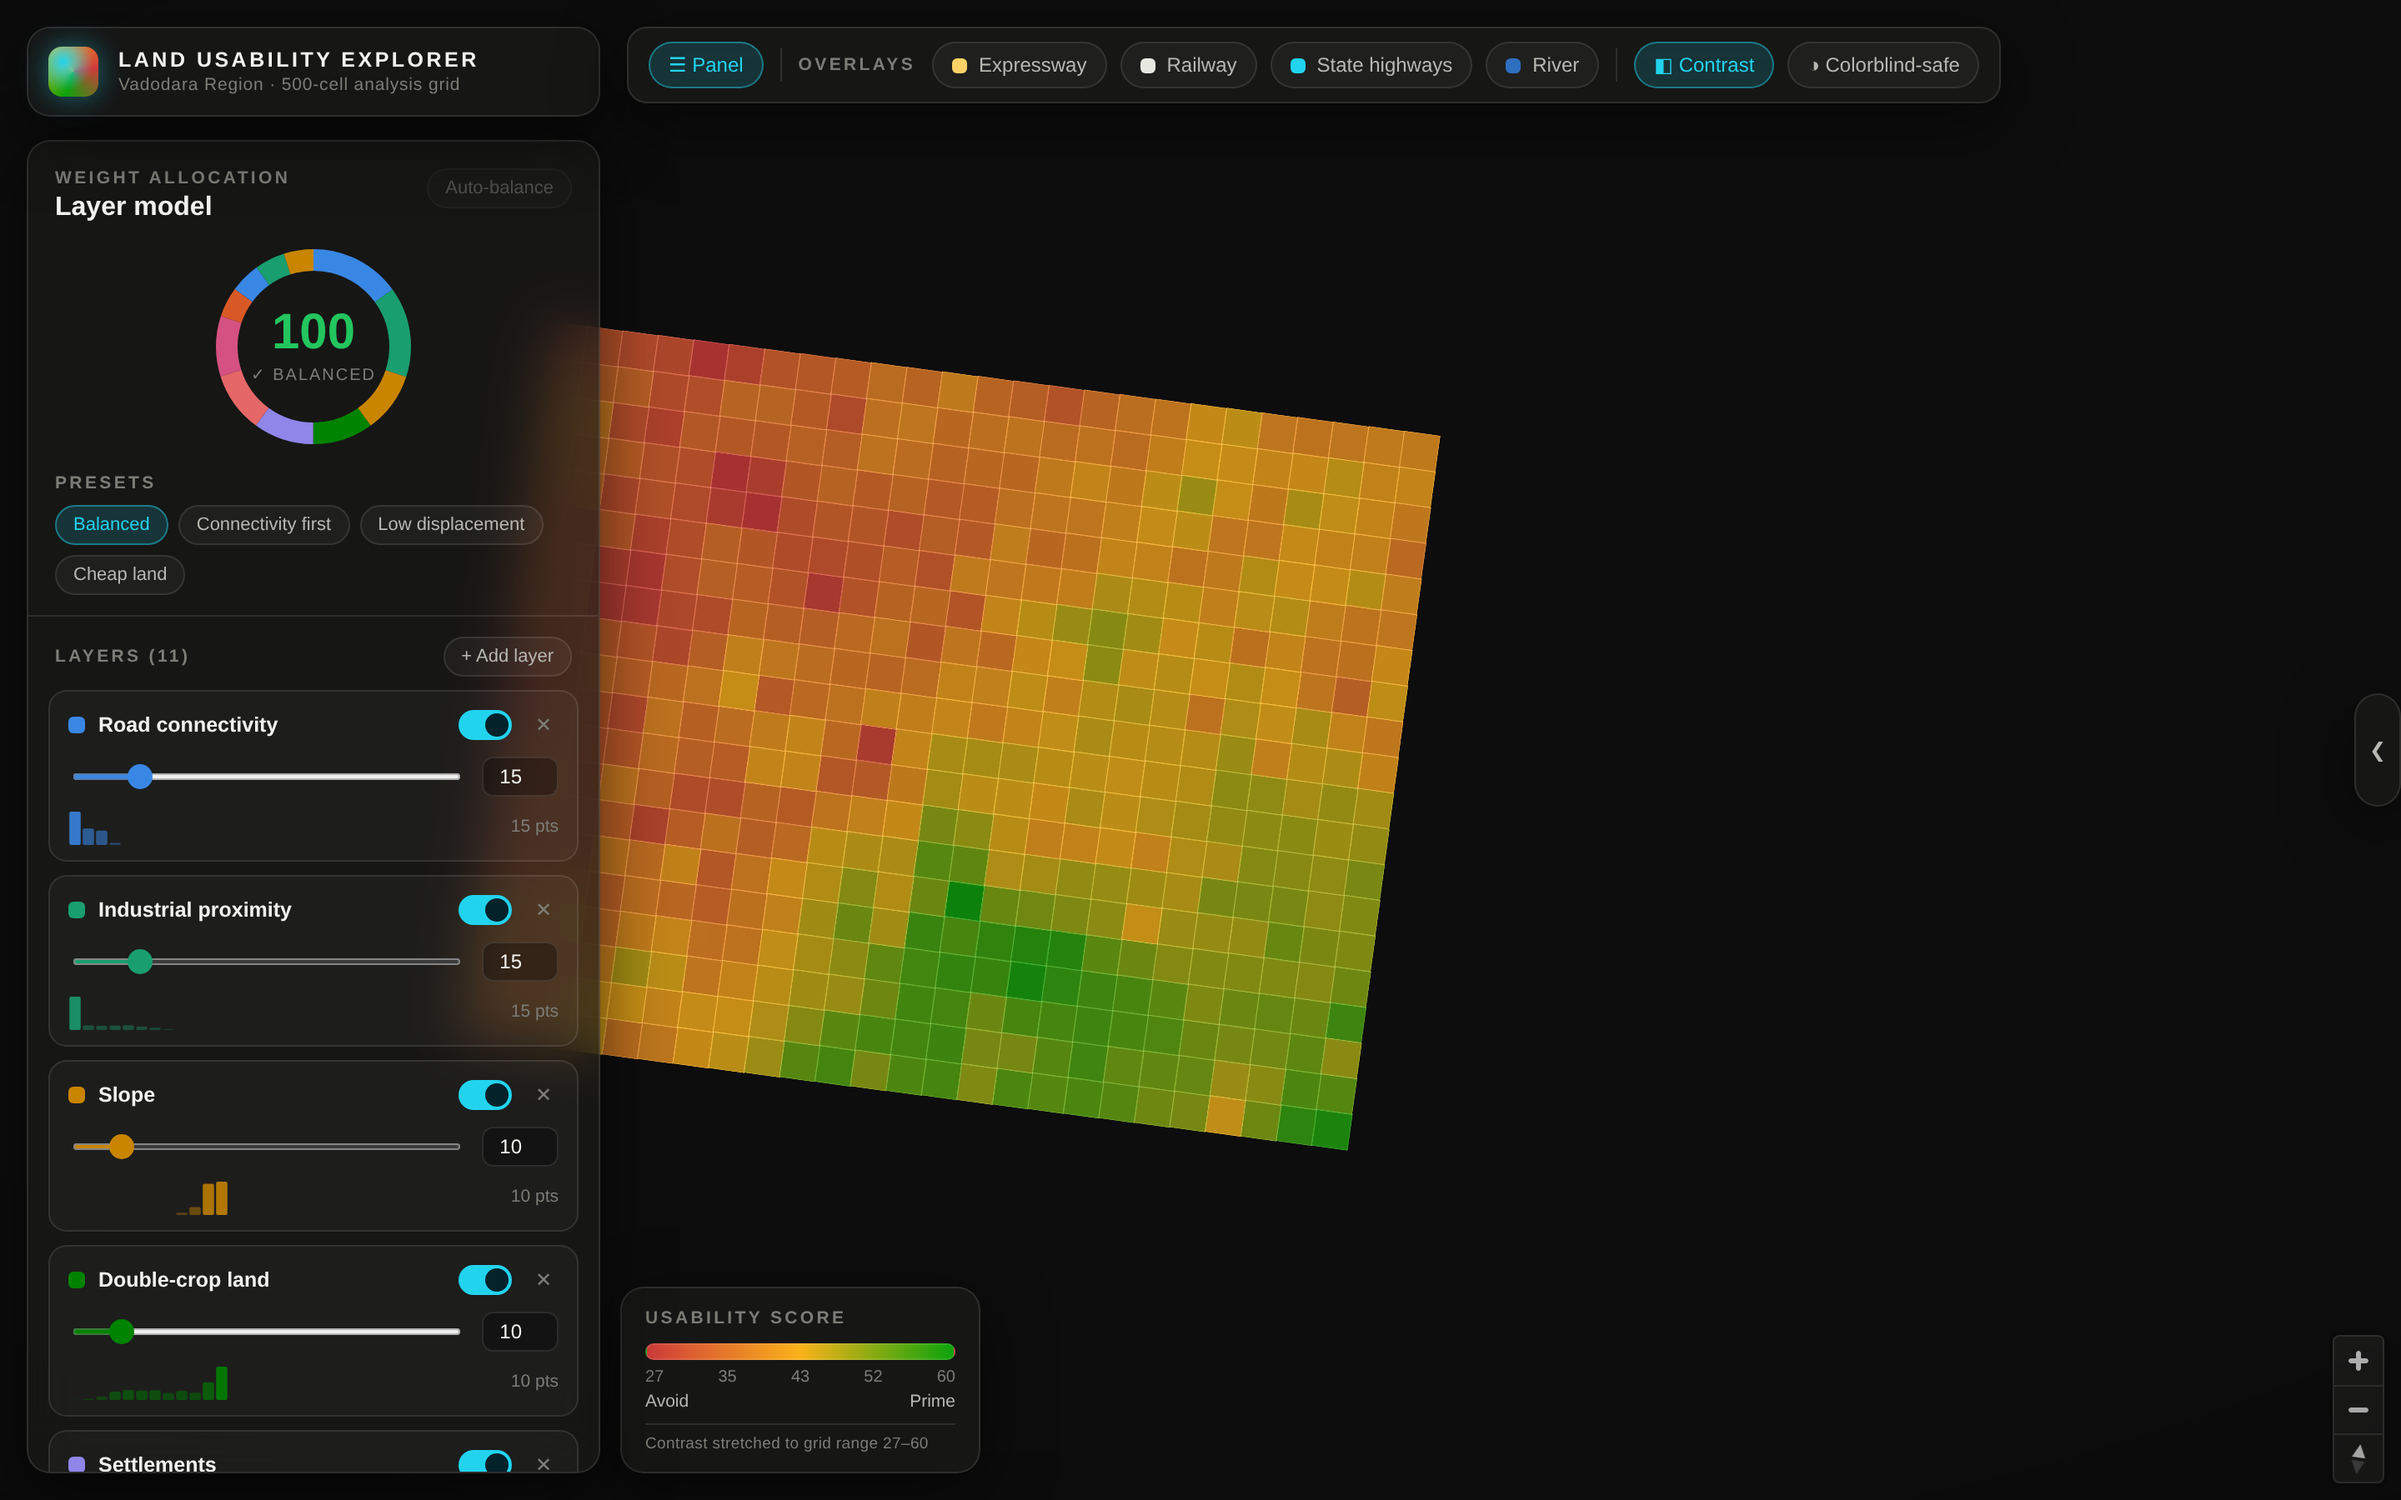
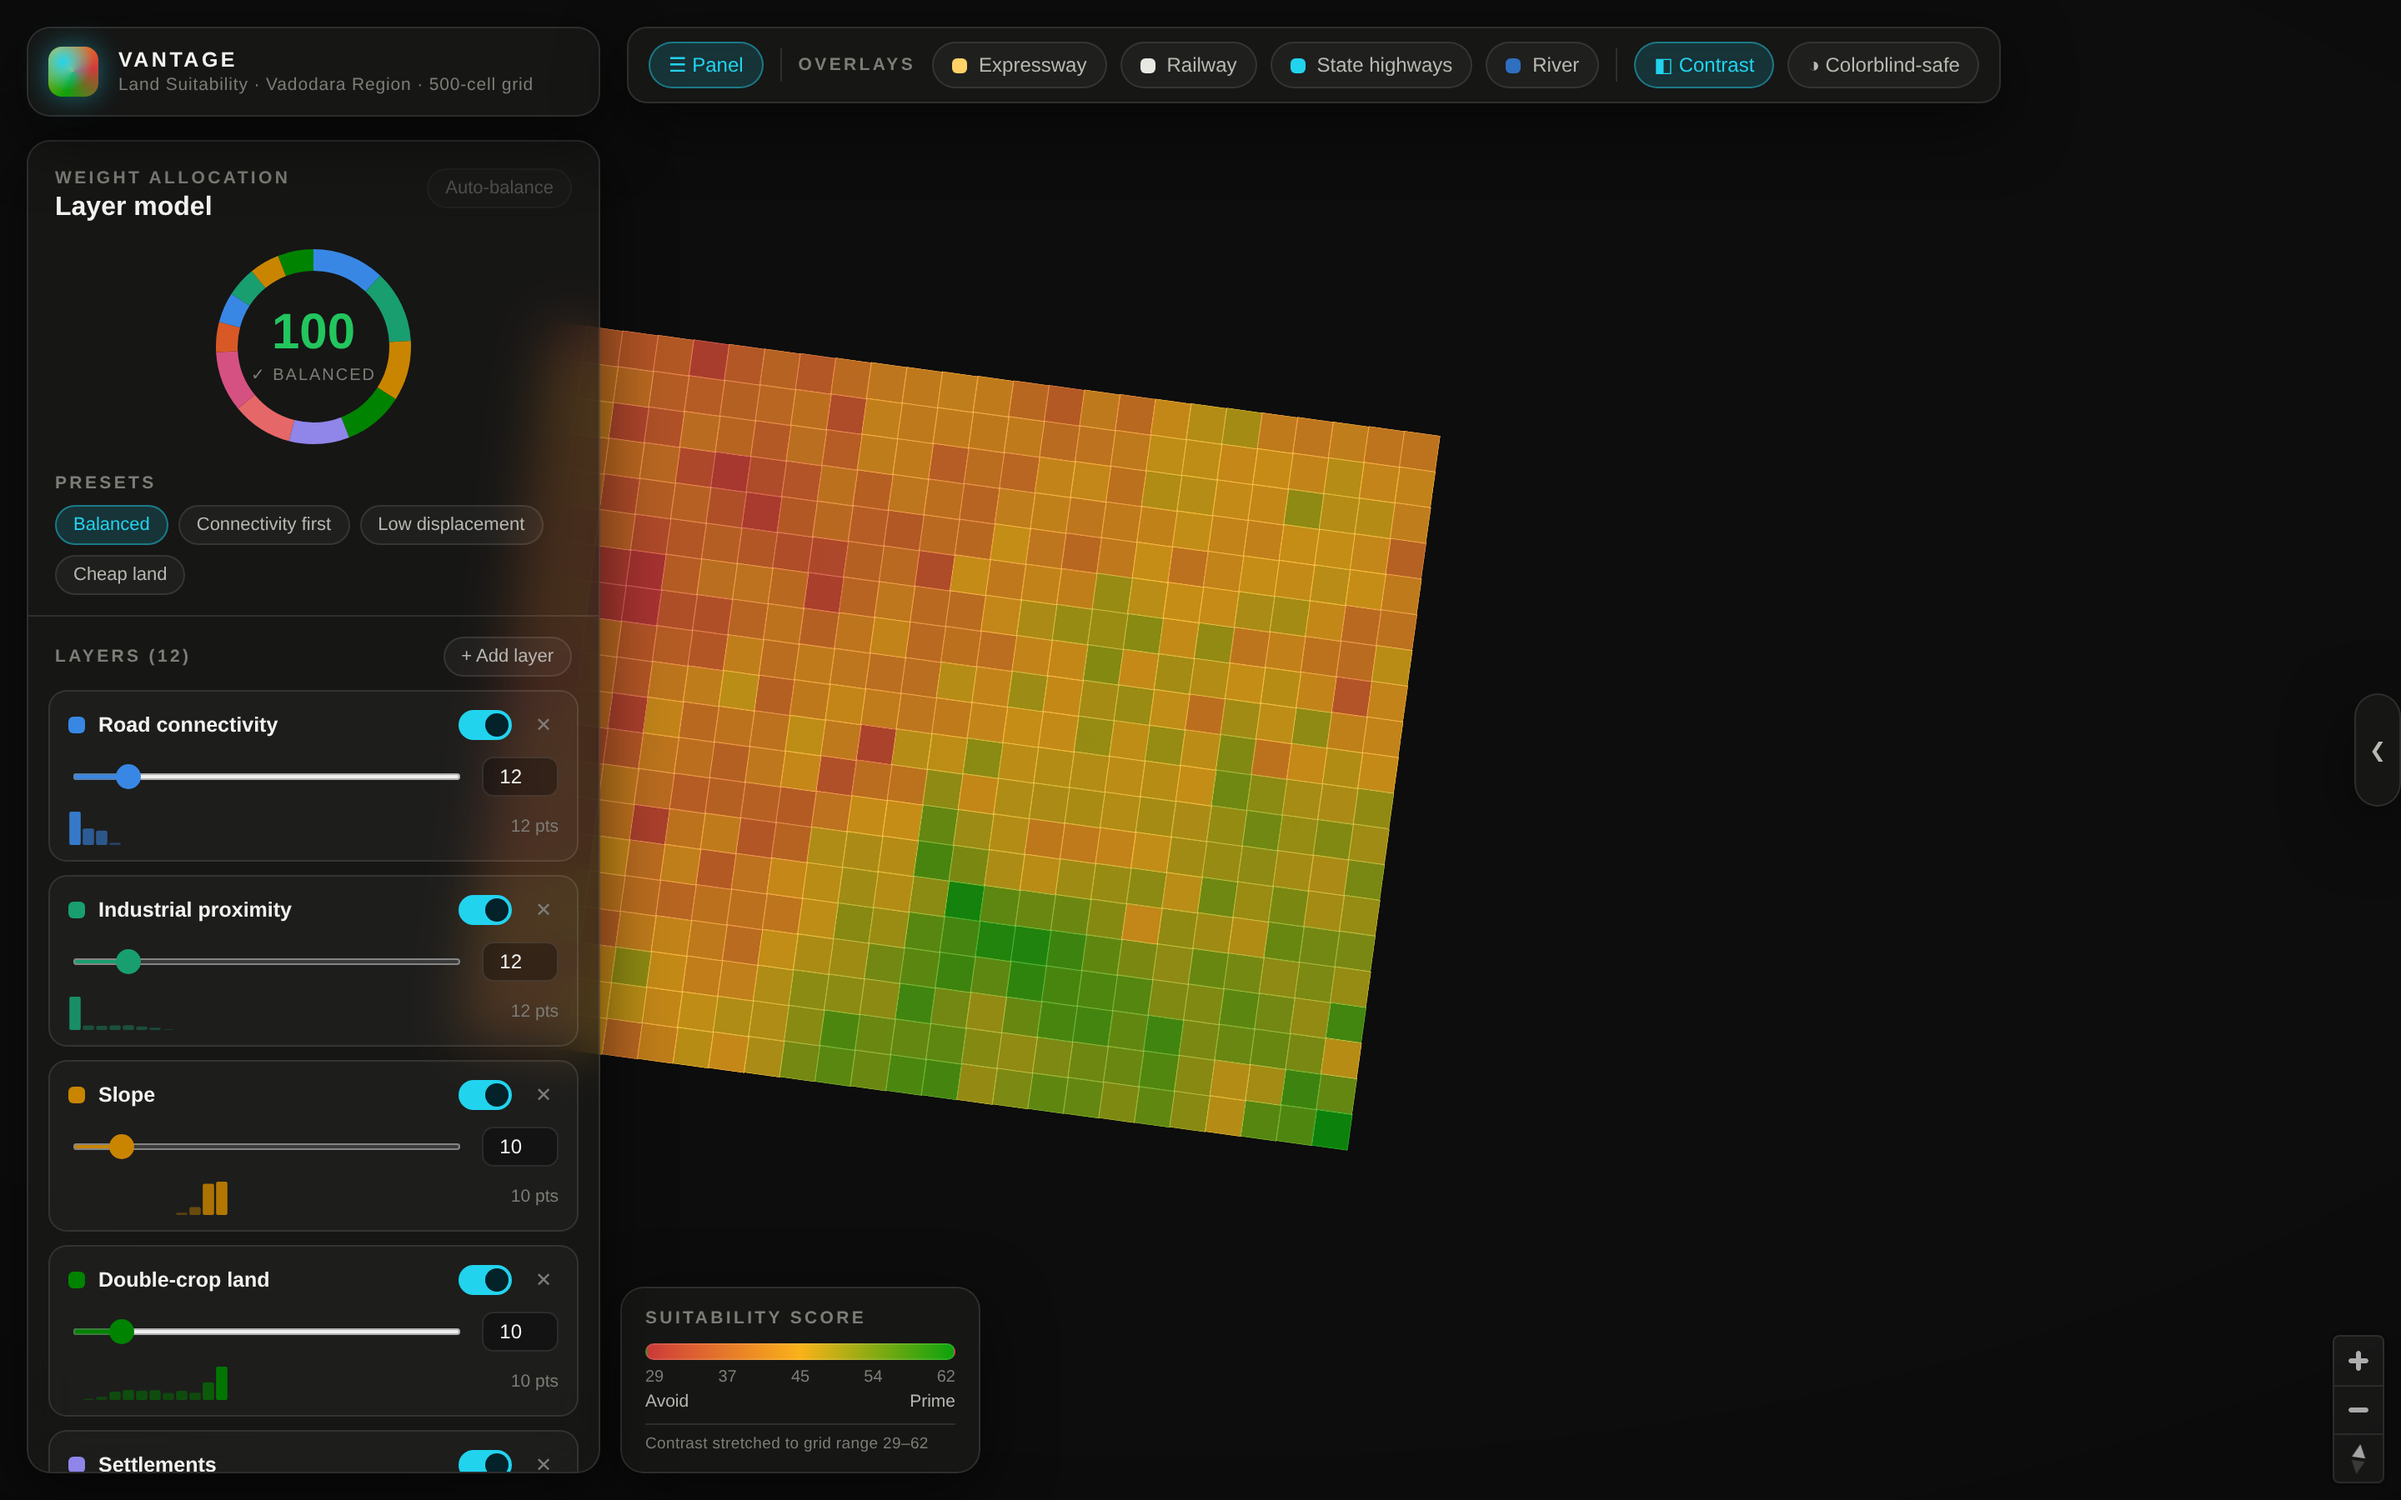
Rebrand to Vantage, switch copy to "suitability", add synthetic GIDC scores
- Rebrand: brand card now VANTAGE / "Land Suitability · Vadodara Region ·
  500-cell grid", index.html title "Vantage — Land Suitability", README
  retitled (run instructions unchanged).
- Terminology: all user-facing "usability" strings replaced with
  "suitability" (score chip, cell inspector heading/unit, legend, dock
  hint, error banner, README). Code identifiers untouched.
- GIDC layer: pipeline now generates deterministic synthetic demo scores
  in [0.05, 0.95] (mulberry32 seeded per cell index, 4 dp) instead of the
  all-zero source join; catalog entry loses the allZero flag, gains
  defaultEnabled + weight 6 and a synthetic-data description.
- Default weights rebalanced to sum to 100 with gidc: roads 15->12,
  industrial 15->12, gidc 6; 'balanced' preset updated to match.
- Regenerated app/public/data (verified deterministic across runs) and
  refreshed verification screenshots.

Claude-Session: https://claude.ai/code/session_0156ZkAw48xdA7cb9rmX1sVk

diff --git a/app/src/components/CellInspector.tsx b/app/src/components/CellInspector.tsx
@@ -20,7 +20,7 @@ export default function CellInspector() {
       <div className="ci-head">
         <div>
           <div className="overline">Cell {selected.toUpperCase()}</div>
-          <div className="ci-title">Usability breakdown</div>
+          <div className="ci-title">Suitability breakdown</div>
         </div>
         <button className="ci-close" onClick={() => selectCell(null)} title="Deselect">✕</button>
       </div>
@@ -28,7 +28,7 @@ export default function CellInspector() {
       <div className="ci-score">
         <div className={`ci-score-val tnum ${valid ? '' : 'muted'}`}>{valid ? fmtScore1(total / 100) : '—'}</div>
         <div className="ci-score-meta">
-          <div className="ci-score-unit">/ 100 usability</div>
+          <div className="ci-score-unit">/ 100 suitability</div>
           {partial && <div className="ci-partial">partial data · re-normalized</div>}
           {!valid && <div className="ci-partial bad">frozen · weights ≠ 100</div>}
         </div>

diff --git a/app/src/App.tsx b/app/src/App.tsx
@@ -49,8 +49,8 @@ export default function App() {
           <div className="brand glass">
             <div className="brand-mark" />
             <div>
-              <div className="brand-title">LAND USABILITY EXPLORER</div>
-              <div className="brand-sub">Vadodara Region · 500-cell analysis grid</div>
+              <div className="brand-title">VANTAGE</div>
+              <div className="brand-sub">Land Suitability · Vadodara Region · 500-cell grid</div>
             </div>
           </div>
           <div className="topbar">

diff --git a/app/src/store/useAppStore.ts b/app/src/store/useAppStore.ts
@@ -11,7 +11,7 @@ export interface Preset {
 export const PRESETS: Preset[] = [
   {
     id: 'balanced', name: 'Balanced',
-    weights: { roads: 15, industrial: 15, slope: 10, doublecrop: 10, settlements: 10, railway: 10, junctions: 10, streams: 5, jantri: 5, npo: 5, wfpr: 5 },
+    weights: { roads: 12, industrial: 12, slope: 10, doublecrop: 10, settlements: 10, railway: 10, junctions: 10, streams: 5, gidc: 6, jantri: 5, npo: 5, wfpr: 5 },
   },
   {
     id: 'connectivity', name: 'Connectivity first',

diff --git a/app/src/components/MapView.tsx b/app/src/components/MapView.tsx
@@ -313,7 +313,7 @@ export default function MapView() {
         .addTo(map);
     }
     const inner = chipRef.current.getElement().firstElementChild as HTMLElement;
-    inner.innerHTML = `<div class="chip-score tnum">${scoreVal}</div><div class="chip-label">usability</div>`;
+    inner.innerHTML = `<div class="chip-score tnum">${scoreVal}</div><div class="chip-label">suitability</div>`;
     chipRef.current.setLngLat(cell.centroid);
   }
 

diff --git a/app/src/components/ErrorBanner.tsx b/app/src/components/ErrorBanner.tsx
@@ -17,7 +17,7 @@ export default function ErrorBanner() {
 
   const msg =
     enabledCount === 0
-      ? 'No layers enabled — enable at least one to compute usability.'
+      ? 'No layers enabled — enable at least one to compute suitability.'
       : `Weights total ${fmtWeight(total)} — must equal 100. ${
           delta > 0 ? `Add ${fmtWeight(delta)} points` : `Remove ${fmtWeight(-delta)} points`
         } or auto-balance.`;

diff --git a/app/src/components/Legend.tsx b/app/src/components/Legend.tsx
@@ -30,7 +30,7 @@ export default function Legend() {
 
   return (
     <div className="legend glass">
-      <div className="overline">Usability score</div>
+      <div className="overline">Suitability score</div>
       <div className="legend-bar" style={{ background: gradient }} />
       <div className="legend-scale tnum">
         {ticks.map((t, i) => <span key={i}>{t}</span>)}

diff --git a/app/src/components/RightDock.tsx b/app/src/components/RightDock.tsx
@@ -44,7 +44,7 @@ export default function RightDock() {
         ) : (
           <div className="dock-hint">
             Hover cells to compare their profile against the grid average.
-            Click a cell for its full usability breakdown.
+            Click a cell for its full suitability breakdown.
           </div>
         )}
       </div>

diff --git a/app/index.html b/app/index.html
@@ -3,7 +3,7 @@
   <head>
     <meta charset="UTF-8" />
     <meta name="viewport" content="width=device-width, initial-scale=1.0" />
-    <title>Land Usability Explorer — Vadodara</title>
+    <title>Vantage — Land Suitability</title>
   </head>
   <body>
     <div id="root"></div>

diff --git a/README.md b/README.md
@@ -1,6 +1,6 @@
-# Land Usability Explorer — Vadodara PoC
+# Vantage — Land Suitability (Vadodara PoC)
 
-An interactive, dark "ops-console" web app that computes a **weighted land-usability
+An interactive, dark "ops-console" web app that computes a **weighted land-suitability
 score** over a 500-cell analysis grid (Vadodara region, Gujarat), renders it as a
 red→green heatmap, and — on clicking any cell — erupts a **360° radial 3D column
 chart** showing how each layer contributes to that cell's score. Layers are fully
@@ -42,10 +42,10 @@ under `data/` changes.
 ## Scoring model
 
 ```
-usability(cell) = Σ  (wᵢ / 100) · sᵢ(cell)     over enabled layers
+suitability(cell) = Σ  (wᵢ / 100) · sᵢ(cell)     over enabled layers
 ```
 
-- `sᵢ ∈ [0,1]` is each layer's precomputed suitability (higher = more usable).
+- `sᵢ ∈ [0,1]` is each layer's precomputed suitability (higher = more suitable).
 - Enabled weights **must sum to exactly 100**; any other total is an invalid
   configuration → the map desaturates to gray, the radial chart freezes, and a
   persistent error banner offers **Auto-balance** (proportional rescale, rounding fixed
@@ -61,7 +61,9 @@ usability(cell) = Σ  (wᵢ / 100) · sᵢ(cell)     over enabled layers
 | Village NPO / WFPR | 476 / 460 covered (rest re-normalized) |
 | Village Jantri | 313 covered — only 53 villages, genuinely spans part of the area |
 
-GIDC is included but disabled by default: every value in the extract is 0.
+The GIDC influence layer's source extract is all zero, so the pipeline substitutes
+deterministic synthetic demo scores (seeded per cell index); it is enabled by default
+with weight 6.
 
 ## Design & accessibility
 
